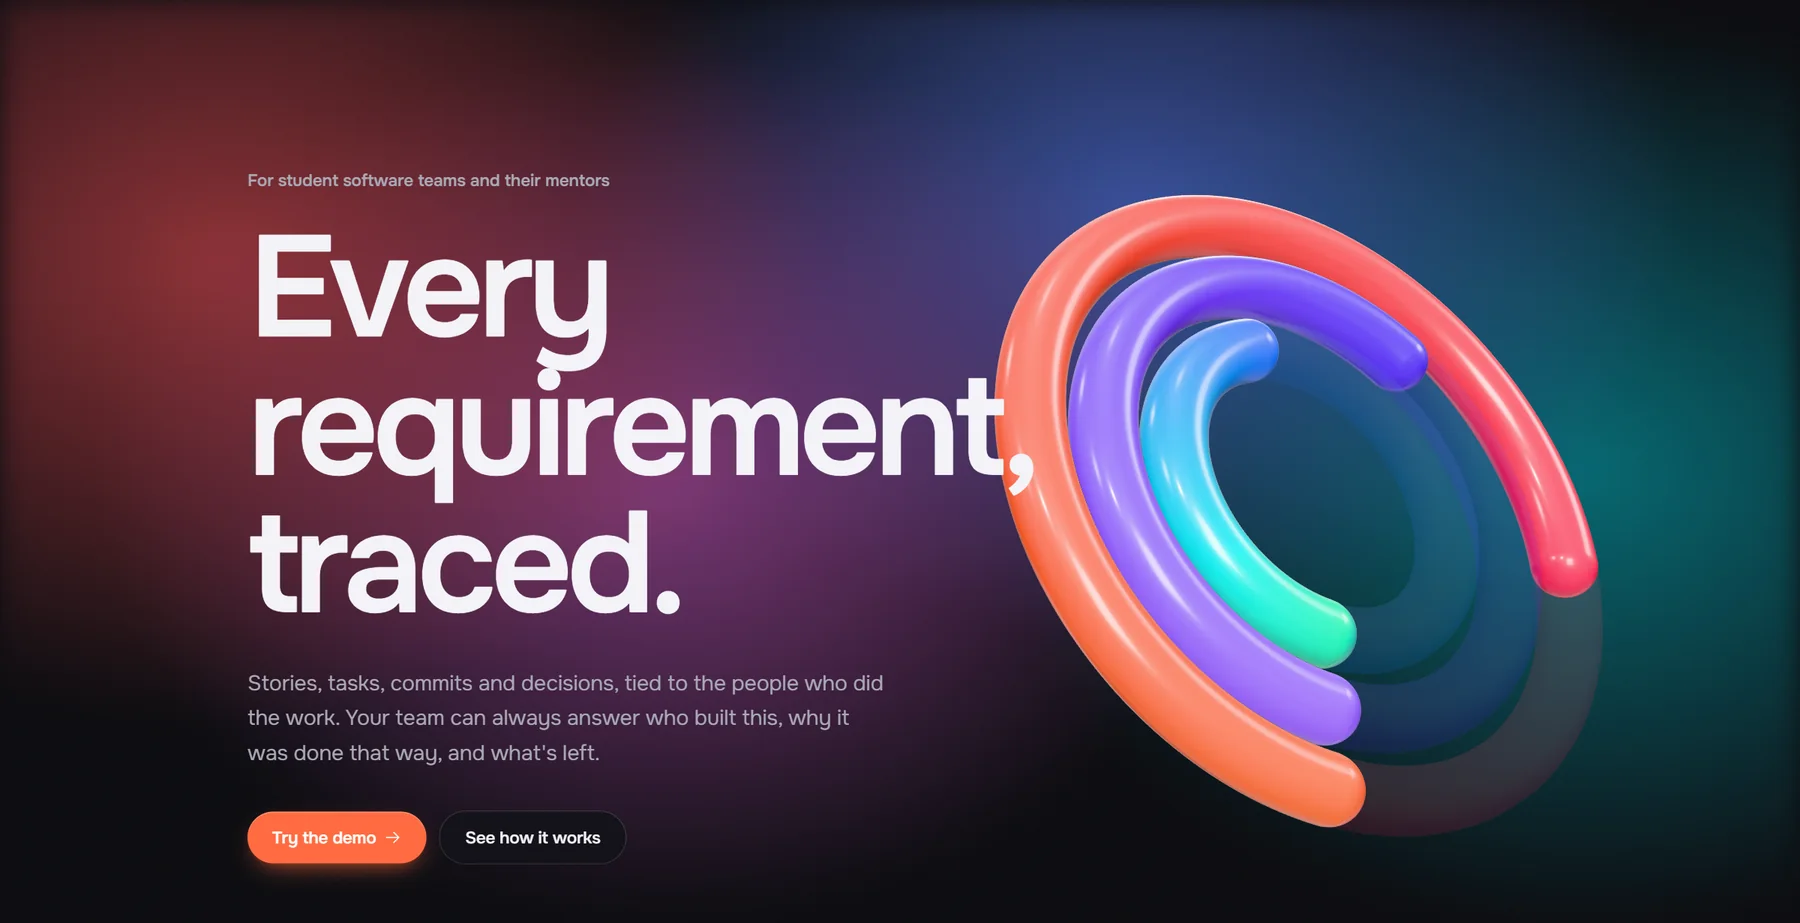
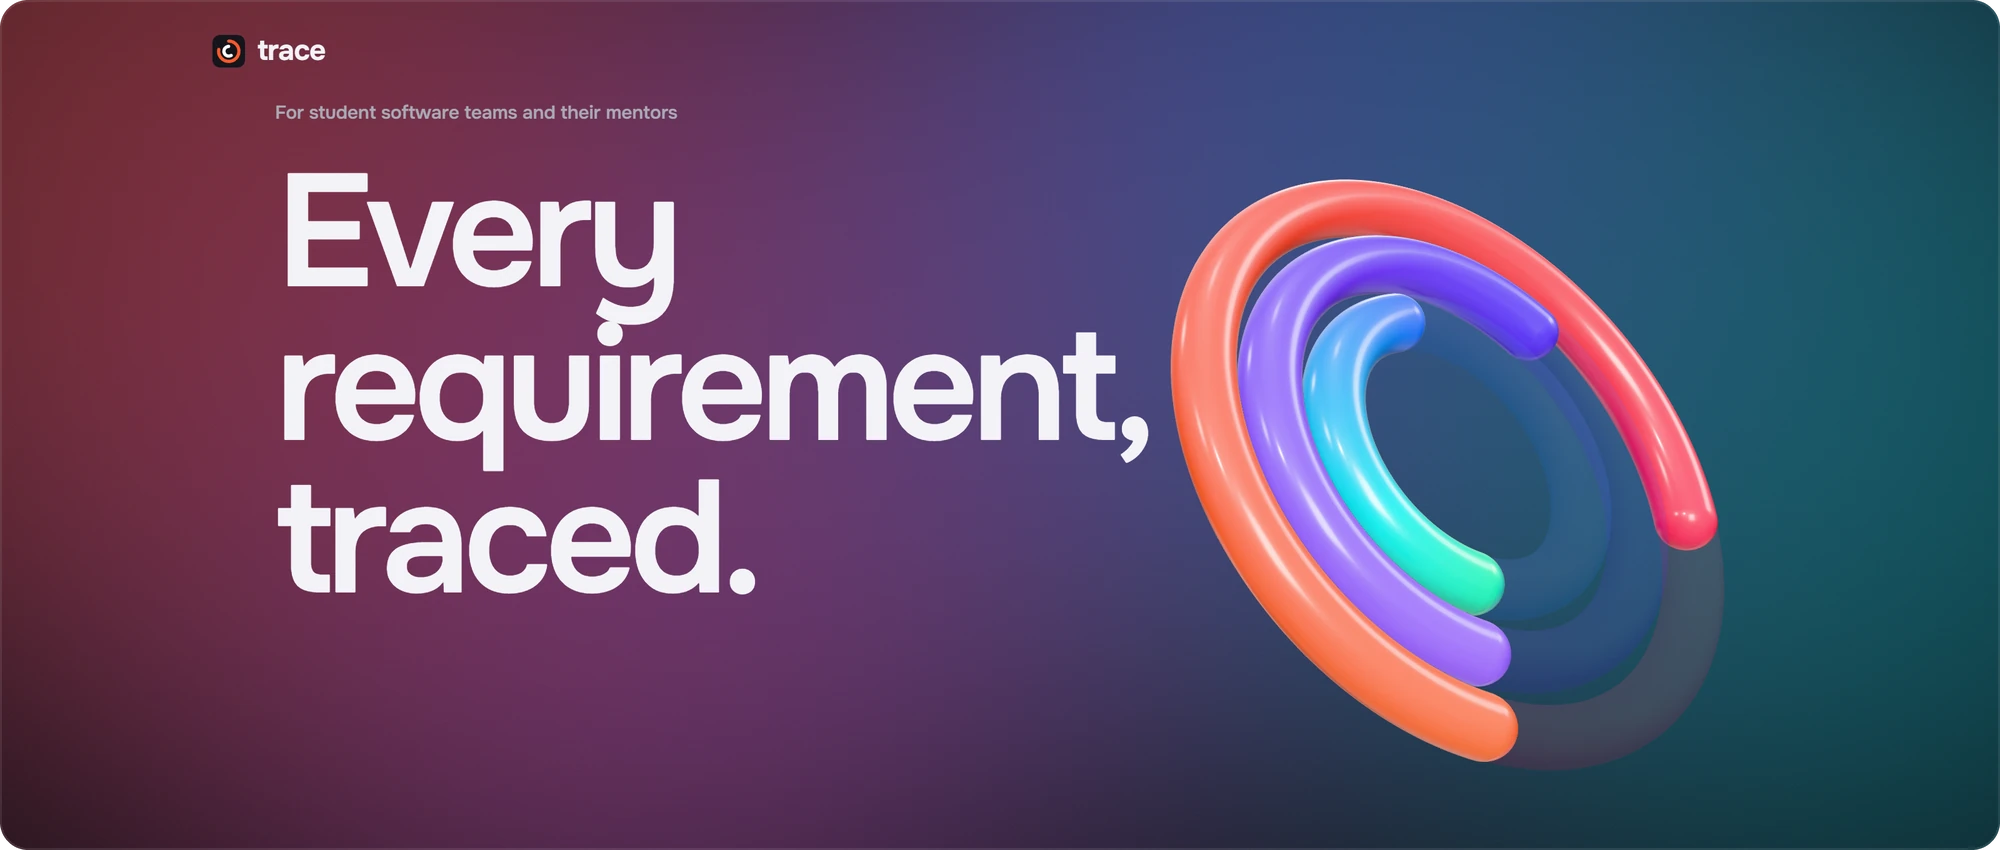
Redesign the README as a product page
A new banner, a looping film and feature images taken from the live site, with shorter copy that describes the product instead of how it is built.

diff --git a/README.md b/README.md
@@ -1,101 +1,92 @@
-<picture>
-  <source media="(prefers-color-scheme: dark)" srcset=".github/media/banner-dark.webp">
-  <img src=".github/media/banner-light.webp" alt="Trace: every requirement, traced" width="100%">
-</picture>
+<a href="https://tracethis.vercel.app">
+  <picture>
+    <source media="(prefers-color-scheme: dark)" srcset=".github/media/banner-dark.webp">
+    <img src=".github/media/banner-light.webp" width="100%" alt="Trace. Every requirement, traced.">
+  </picture>
+</a>
+
+<br>
 
 <p align="center">
-  <b>Trace</b> is the workspace student software teams use to show who built what, why it was decided, and what is left.
-  <br><br>
-  <a href="https://tracethis.vercel.app"><b>Open Trace</b></a>
-  &nbsp;·&nbsp;
-  <a href="https://tracethis.vercel.app/enter">Look around a demo team</a>
-  &nbsp;·&nbsp;
-  <a href="#for-mentors">For mentors</a>
+  <b>Trace</b> is where student software teams keep the receipts.<br>
+  Every requirement is tied to the tasks, commits, decisions and people behind it,<br>
+  so a team can show who built what, why it was decided, and what is left.
+</p>
+
+<p align="center">
+  <a href="https://tracethis.vercel.app/enter"><img src=".github/media/cta.png" height="46" alt="Try the demo"></a>
+</p>
+
+<p align="center">
+  <sub>For student software teams&ensp;·&ensp;and the mentors who guide them</sub>
 </p>
 
 <br>
 
-Group projects tend to end the same way. Someone asks who wrote the search, why the team switched to email alerts, or whether the login story is really finished, and nobody can quite say. The commits are in one place, the decisions are in a chat, the tasks are on a board, and the requirements are in a document that stopped being true weeks ago.
-
-We built Trace so that never happens. Every requirement is tied to the tasks behind it, the commits that delivered it, the decisions that shaped it and the people who did the work, and it stays that way as the project moves.
-
-<br>
-
-## A project you can see
-
-<img src=".github/media/rewind.webp" alt="Three rings filling as the project replays from its first day" width="100%">
-
-Three rings say how done a team really is: stories traced from requirement to working code, tasks finished, and commits tied to a story. Drag back along the timeline and every number, ring and share of the work is rebuilt for that day. Press play and the whole project rebuilds itself from the first commit.
-
-Each workspace is lit in its team's colours. Every member is a pool of light sized by their share of the work, so a balanced team glows evenly and a team carried by one person shows it at a glance.
+<picture>
+  <source media="(prefers-color-scheme: dark)" srcset=".github/media/film-dark.webp">
+  <img src=".github/media/film-light.webp" width="100%" alt="The rings close and a requirement unfolds into its tasks and commits">
+</picture>
 
 <br>
-
-## Every requirement, traced
-
-<img src=".github/media/trace.webp" alt="Stories with their chains of tasks, commits and decisions" width="100%">
-
-Each story carries its chain of evidence: the tasks behind it, every commit in the colour of whoever made it, the decisions that shaped it and the people who built it. A commit that mentions `LF-12` links itself. For everything else, Trace suggests the match and a teammate says yes or no, and a rejected suggestion never comes back.
-
-The whole traceability matrix exports in one click, ready for a report.
-
 <br>
 
-## Receipts, not opinions
+### A project you can see.
 
-<img src=".github/media/wallet.webp" alt="One receipt pass per teammate, with their share of the work" width="100%">
+Three rings say how done a team really is: stories traced from requirement to working code, tasks finished, commits tied to a story. Drag back along the timeline and every ring, number and share of the work is rebuilt for that day.
 
-Every teammate gets a receipt, and every line on it is evidence: a commit, a finished task, a decision, a story they wrote. Shares come from the record, not from anyone's opinion, and no line is written by AI.
-
-Anyone can dispute a line and say what really happened. The team lead resolves it, and the receipt keeps both sides. It prints cleanly, for the day someone needs it on paper.
+<img src=".github/media/rewind.webp" width="100%" alt="The project replaying from its first day as the rings fill">
 
 <br>
-
-## Ready for the viva
-
-<img src=".github/media/viva.webp" alt="A flashcard asking about code a teammate wrote" width="100%">
-
-Flashcards on the code, decisions and requirements a student did *not* work on, answered from the team's own record. Say the answer out loud, flip the card, be honest about how it went. Practice only: nothing is graded or shown to anyone.
-
 <br>
 
-## Ask the record
+### Every requirement, traced.
 
-<img src=".github/media/spotlight.webp" alt="Searching for a story and asking the record a question" width="100%">
+Each story carries its chain of evidence: the tasks behind it, every commit in the colour of whoever made it, and the decisions that shaped it. A commit that names a story links itself. The whole traceability matrix exports in one click.
 
-One shortcut opens a search across every story, task, decision and person. Type a question instead, like *why did we email match alerts instead of push?*, and Trace answers from the team's own decisions, chat and commits, with every claim pointing at its source.
-
-<br>
-
-## For mentors
-
-<img src=".github/media/mentor.webp" alt="Five teams, each card lit in its team's colours" width="100%">
-
-A mentor sees every team they guide on one page, the teams that need attention first: how much is traced, who is carrying the work, who went quiet, open disputes and decisions that contradict each other.
-
-Getting there takes a few seconds. A team lead reads out the team's mentor code, or adds the mentor by email before they even have an account, and the team appears the moment they sign in. Mentors can read everything, comment and raise disputes, but the record stays the team's.
+<img src=".github/media/trace.webp" width="100%" alt="Stories with their chains of tasks, commits and decisions">
 
 <br>
-
-## In every pocket
-
-<img src=".github/media/phones.webp" alt="Today, receipts and chat on a phone" width="100%">
-
-Trace works the same on a phone, in light or dark, with the team's chat, its board and its receipts a thumb away.
-
 <br>
 
-## How it fits together
+### Receipts, not opinions.
 
-1. **Write the stories.** Each one says who it is for, what they need and why, with acceptance criteria anyone can demo. Stories and tasks share one counter, so every item has a short ID like `LF-12`.
-2. **Do the work.** Tasks move across the board. Commits that name an item link themselves; Trace suggests the rest.
-3. **Decide out loud.** Start a chat message with `/decide` and it becomes a numbered decision, with its reasons, tied to the conversation it came from.
-4. **Close the rings.** A story is *traced* when every task is done and at least one commit stands behind it. When all three rings close, the project is done, and the team can prove it.
+Every teammate gets a receipt, and every line on it is evidence. Shares come from the record, not from anyone's opinion. Anyone can dispute a line, and the receipt keeps both sides.
 
+<img src=".github/media/wallet.webp" width="100%" alt="One receipt pass per teammate, with their share of the work">
+
+<br>
+<br>
+
+### Ready for the viva.
+
+Flashcards on the code and decisions a student did *not* work on, drawn from the team's own record. Practice only: nothing is graded or shown to anyone.
+
+<img src=".github/media/viva.webp" width="100%" alt="A flashcard asking about code a teammate wrote">
+
+<br>
+<br>
+
+### Every team, at a glance.
+
+A mentor sees every team they guide on one page, the ones that need attention first: how much is traced, who is carrying the work, who went quiet, and which decisions contradict each other.
+
+<img src=".github/media/mentor.webp" width="100%" alt="Five teams, each card lit in its team's colours">
+
+<br>
+<br>
+
+### In every pocket.
+
+<img src=".github/media/phones.webp" width="100%" alt="Today, receipts and chat on a phone">
+
+<br>
 <br>
 
 <p align="center">
-  <a href="https://tracethis.vercel.app"><b>tracethis.vercel.app</b></a>
+  <a href="https://tracethis.vercel.app"><img src="src/app/icon.svg" width="40" alt="Trace"></a>
   <br><br>
-  <sub>Designed and built by <a href="https://github.com/sirgreaseball">Dhruv Sonar</a>. © 2026. All rights reserved.</sub>
+  <sub>Next.js, Supabase and Three.js.</sub>
+  <br>
+  <sub>Designed and built by Dhruv Sonar. © 2026. All rights reserved.</sub>
 </p>
